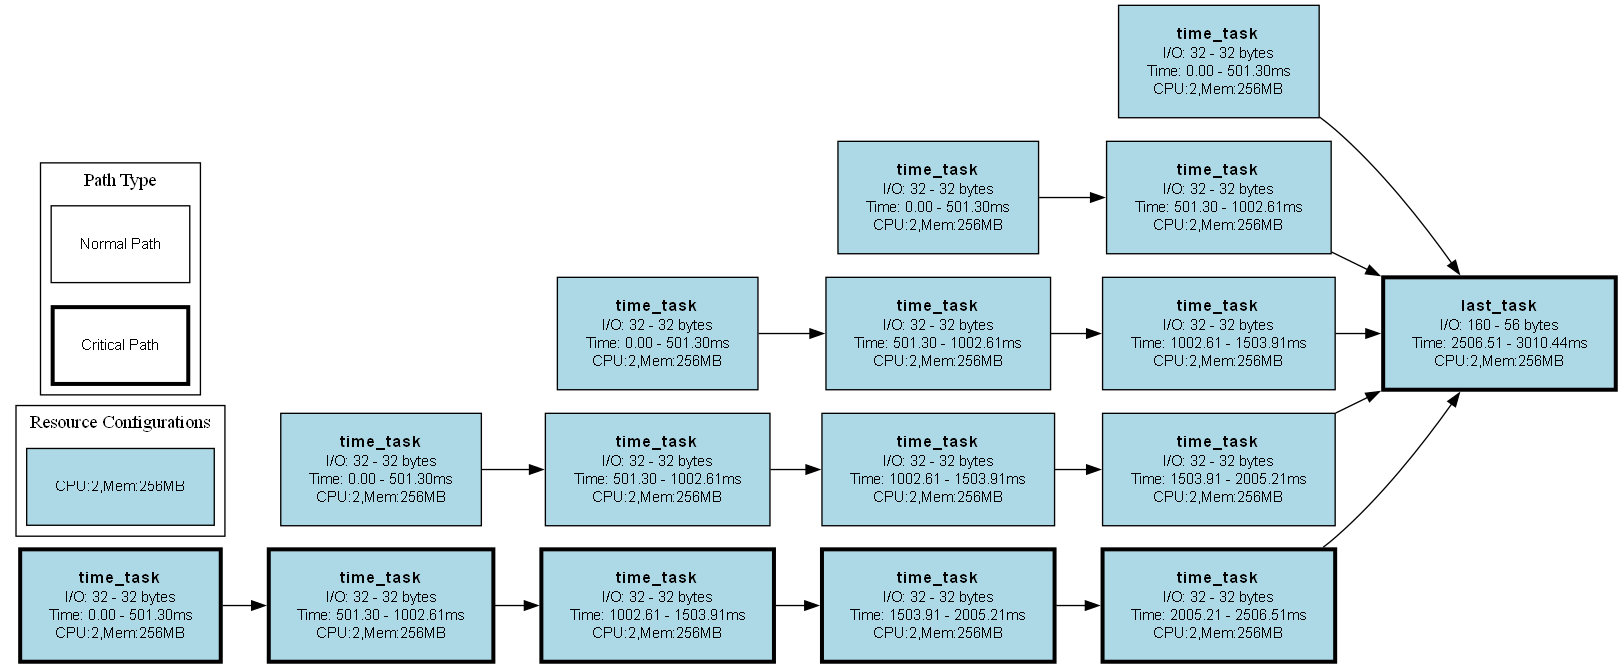
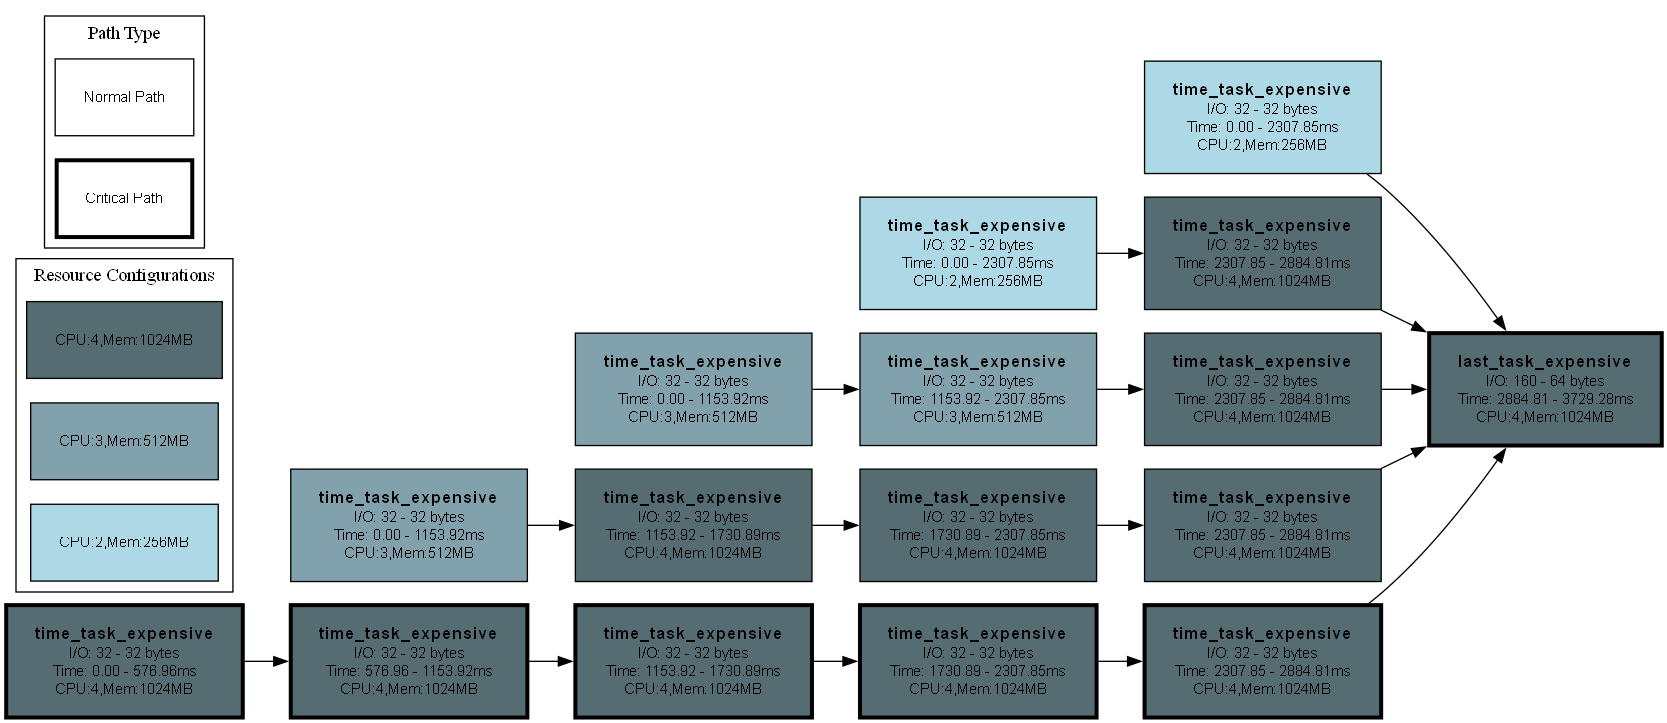
bkp before refactor

diff --git a/src/planning/dag_planner.py b/src/planning/dag_planner.py
@@ -299,27 +299,6 @@ class DAGPlanner(ABC):
         
         return dot
 
-    # @staticmethod
-    # def _simulate_lower_resources(node, sorted_available_worker_resource_configurations, node_to_resource_config, critical_path_nodes, topo_sorted_nodes, dag, metadata_access, sla):
-    #     node_id = node.id.get_full_id()
-            
-    #     # Try each resource config from lowest to highest
-    #     for resource_config in sorted_available_worker_resource_configurations:
-    #         if resource_config == node_to_resource_config[node_id]:
-    #             continue # Skip if it's the currently assigned config (no need to recalculate)
-                
-    #         # Temporarily assign this resource config
-    #         original_config = node_to_resource_config[node_id]
-    #         node_to_resource_config[node_id] = resource_config
-            
-    #         # Recalculate timings with this resource configuration
-    #         temp_nodes_info = SimpleDAGPlanner._calculate_node_timings_with_custom_resources(topo_sorted_nodes, metadata_access, node_to_resource_config, sla)
-    #         new_critical_path_nodes, _ = SimpleDAGPlanner._find_critical_path(dag, temp_nodes_info)
-            
-    #         if new_critical_path_nodes != critical_path_nodes:
-    #             # This config changes the critical path, revert
-    #             node_to_resource_config[node_id] = original_config
-
 class SimpleDAGPlanner(DAGPlanner):
     @staticmethod
     def plan(dag, metadata_access: MetadataAccess, sorted_available_worker_resource_configurations: list[TaskWorkerResourceConfiguration], sla: SLA):
@@ -349,8 +328,7 @@ class SimpleDAGPlanner(DAGPlanner):
             return
         
         logger.info(f"Starting DAG Planning Algorithm")
-        # ! UNCOMMENT AFTER TESTING best_resource_config = sorted_available_worker_resource_configurations[0]
-        best_resource_config = middle_resource_config
+        best_resource_config = sorted_available_worker_resource_configurations[0]
         
         algorithm_start_time = Timer()
 
@@ -366,34 +344,32 @@ class SimpleDAGPlanner(DAGPlanner):
         
         # Downgrade resources for nodes NOT on the critical path
         # Start with all nodes using best resources
-        # ! UNCOMMMENT AFTER TESTING node_to_resource_config = { node.id.get_full_id(): best_resource_config for node in topo_sorted_nodes }
-        node_to_resource_config = { node.id.get_full_id(): middle_resource_config for node in topo_sorted_nodes }
+        node_to_resource_config = { node.id.get_full_id(): best_resource_config for node in topo_sorted_nodes }
         nodes_outside_critical_path = [node for node in topo_sorted_nodes if node.id.get_full_id() not in critical_path_node_ids]
         lower_resources_simulation_timer = Timer()
         successful_downgrades = 0
         # For each NON-critical path node, try to use lower resources
-        # ! COMMENTED FOR TESTING
-        # for node in nodes_outside_critical_path:
-        #     node_id = node.id.get_full_id()
-        #     node_downgrade_successful = False
-        #     # Try each resource config from highest to lowest
-        #     for resource_config in sorted_available_worker_resource_configurations:
-        #         if resource_config == node_to_resource_config[node_id]: continue
-        #         # Temporarily assign this resource config
-        #         original_config = node_to_resource_config[node_id]
-        #         node_to_resource_config[node_id] = resource_config
+        for node in nodes_outside_critical_path:
+            node_id = node.id.get_full_id()
+            node_downgrade_successful = False
+            # Try each resource config from highest to lowest
+            for resource_config in sorted_available_worker_resource_configurations:
+                if resource_config == node_to_resource_config[node_id]: continue
+                # Temporarily assign this resource config
+                original_config = node_to_resource_config[node_id]
+                node_to_resource_config[node_id] = resource_config
                 
-        #         # Recalculate timings with this resource configuration
-        #         temp_nodes_info = SimpleDAGPlanner._calculate_node_timings_with_custom_resources(topo_sorted_nodes, metadata_access, node_to_resource_config, sla)
-        #         _, new_critical_path_time = SimpleDAGPlanner._find_critical_path(dag, temp_nodes_info)
+                # Recalculate timings with this resource configuration
+                temp_nodes_info = SimpleDAGPlanner._calculate_node_timings_with_custom_resources(topo_sorted_nodes, metadata_access, node_to_resource_config, sla)
+                _, new_critical_path_time = SimpleDAGPlanner._find_critical_path(dag, temp_nodes_info)
 
-        #         if new_critical_path_time != critical_path_time:
-        #             node_to_resource_config[node_id] = original_config # This config changes the critical path, revert
-        #         else:
-        #             # print(f"Node: {node_id[-6:]} | Downgraded Resources: {original_config.memory_mb} => {node_to_resource_config[node_id].memory_mb}")
-        #             node_downgrade_successful = True
-        #     if node_downgrade_successful:
-        #         successful_downgrades += 1
+                if new_critical_path_time != critical_path_time:
+                    node_to_resource_config[node_id] = original_config # This config changes the critical path, revert
+                else:
+                    # print(f"Node: {node_id[-6:]} | Downgraded Resources: {original_config.memory_mb} => {node_to_resource_config[node_id].memory_mb}")
+                    node_downgrade_successful = True
+            if node_downgrade_successful:
+                successful_downgrades += 1
 
         logger.info(f"Downgraded resources for {successful_downgrades} nodes out of {len(nodes_outside_critical_path)} nodes outside the critical path in {lower_resources_simulation_timer.stop():.3f} ms")
 
@@ -416,7 +392,7 @@ class SimpleDAGPlanner(DAGPlanner):
         updated_nodes_info = DAGPlanner._calculate_node_timings_with_custom_resources(topo_sorted_nodes, metadata_access, node_to_resource_config, sla)
         DAGPlanner._visualize_dag(dag, updated_nodes_info, node_to_resource_config, critical_path_node_ids)
         # !!! FOR QUICK TESTING ONLY. REMOVE LATER !!!
-        exit()
+        # exit()
 
 class DummyDAGPlanner(DAGPlanner):
     @staticmethod

diff --git a/src/storage/metrics/metrics_storage.py b/src/storage/metrics/metrics_storage.py
@@ -3,7 +3,10 @@ import time
 
 import cloudpickle
 from src.storage.storage import Storage
+from src.utils.logger import create_logger
 from src.worker_resource_configuration import TaskWorkerResourceConfiguration
+
+logger = create_logger(__name__)
 
 @dataclass
 class FullDAGPrepareTime:
@@ -82,20 +85,19 @@ class MetricsStorage:
         return [cloudpickle.loads(m) for m in self.storage.mget(keys)]
 
     def store_task_metrics(self, task_id: str, metrics: TaskMetrics):
-        print(f"Caching metrics for task {task_id}: {len(metrics.input_metrics)}")
+        # logger.info(f"Caching metrics for task {task_id}: {len(metrics.input_metrics)}")
         self.cached_metrics[f"{self.TASK_METRICS_KEY_PREFIX}{task_id}"] = metrics
 
     def store_dag_download_time(self, id: str, dag_download_metrics: FullDAGPrepareTime):
-        print(f"Caching download time for root node {id}: {dag_download_metrics.download_time_ms} ms, {dag_download_metrics.size_bytes} bytes")
+        # logger.info(f"Caching download time for root node {id}: {dag_download_metrics.download_time_ms} ms, {dag_download_metrics.size_bytes} bytes")
         self.cached_metrics[f"{self.DAG_METRICS_KEY_PREFIX}{id}"] = dag_download_metrics
     
     def flush(self):
-        print("Flushing metrics to storage...")
         start = time.time()
 
         for key, metrics in self.cached_metrics.items():
             self.storage.set(key, cloudpickle.dumps(metrics))
         
         end = time.time()
-        print(f"Flushed {len(self.cached_metrics)} metrics to storage in {end - start:.4f} seconds")
+        logger.info(f"Flushed {len(self.cached_metrics)} metrics to storage in {end - start:.4f} seconds")
         self.cached_metrics = {}

diff --git a/_examples/original/dagforpredictions_expensive_computations.py b/_examples/original/dagforpredictions_expensive_computations.py
@@ -36,9 +36,9 @@ dockerWorkerConfig = DockerWorker.Config(
     intermediate_storage_config=redis_intermediate_storage_config,
     metrics_storage_config=MetricsStorage.Config(storage_config=redis_metrics_storage_config),
     available_resource_configurations=[
-        TaskWorkerResourceConfiguration(cpus=1, memory_mb=128), # will be the default/fallback
         TaskWorkerResourceConfiguration(cpus=2, memory_mb=256),
-        TaskWorkerResourceConfiguration(cpus=4, memory_mb=512)
+        TaskWorkerResourceConfiguration(cpus=3, memory_mb=512),
+        TaskWorkerResourceConfiguration(cpus=4, memory_mb=1024)
     ]
 )
 

diff --git a/src/worker.py b/src/worker.py
@@ -207,7 +207,7 @@ class Worker(ABC):
         return (calculate_data_structure_size(deserialized), deserialized)
 
     @staticmethod
-    async def wait_for_result_of_task(intermediate_storage: storage_module.Storage, task: dag_task_node.DAGTaskNode, dag: dag.FullDAG, polling_interval_s: float = 1.0):
+    async def wait_for_result_of_task(intermediate_storage: storage_module.Storage, task: dag_task_node.DAGTaskNode, dag: dag.FullDAG, polling_interval_s: float = 0.1):
         start_time = Timer()
         # Poll Storage for final result. Asynchronous wait
         task_id = task.id.get_full_id_in_dag(dag)

diff --git a/TODO.md b/TODO.md
@@ -1,38 +1,33 @@
 # PLANNING ALGORITHMS
-- Problem: Test Planning accuracy (is the predicted time close to the real time?) always using the MIDDLE config and `dagforpredictions_expensive_computations.py`
-    1. Create a DAG that actually does expensive computation that runs faster on better memory
-        Adjust `dagforpredictions_expensive_computations.py`
-    2. [DONE] Change planner to just use middle configuration so that predictions algorithm doesn't influence too much
-- Revert to use more than the middle config
-
-- Test the SimplePlanner algorithm: make a run without the planning algorithm and make another with the planning algorithm, then compare
+- 1. Experiment planning with diverse resources for `dagforpredictions_expensive_computations.py`
+    Compare `planned time` VS `real time`
+- Problem ?: Dashboard makespan VS client console completion time big diff.
 - Make the SLA configurable by the user (currently it's hardcoded on `dag.py` as "avg")
-
-- IMPROVEMENTS
-    - Make predictions faster (not too important for now)
-        - Threadpool
-        - Incremental Critical Path Calculation => Instead of recalculating the entire DAG for each change, develop an algorithm that incrementally updates affected paths
-        - ? Don't simulate for ALL nodes. establish a max tries and select specific paths
-
-- Report 1st algorithm (requires: pre-load optimization implemented)
+- 1 second diff. between planned time and real time
 
 # WORKER
+- 2. Plan the worker logic refactor
+Pieces: Worker, SchedulingLogic tied to a Planner (1 => N, there can be 1 Scheduling Logic for N Planner algorithms that use the same optimizations. The SchL determines the optimizations available)
+    class SchedulingLogic
+        - virtual methods: handle_inputs, handle_execution, handle_output, handle_downstream
+            their default implementations are the current implementation on worker.start_executing()
+    class Planner
+        - Internally points to a specialized SchedulingLogic.Annotations/Optimizations
+    class Worker
+        - 
 Further abstract the worker
 - grab_dependencies (allow algorithm to use threads or coroutines to download input, only download some input and get other input locally or from another source)
 - execute (allow algorithm to do other things before, after and while task is executing or completely skip execution)
-- handle_output (allow algorithm to not upload output, upload lazilly, etc..)
+- handle_downstream (allow algorithm to not upload output, upload lazilly, etc..)
+
+- Implement pre-load optimization
+    - Implement report 1st algorithm as a NEW algorithm (keep the first one that just does 1 pass and uses no optimizations)
 
 - [REFACTOR]
     - If serialized DAG size is below a threshold (passed on WorkerConfig, pass it on the invocation)
         store_full_dag DOESN'T change
         NEW => workers MAY not need to download dag from storage
             serialized_dag: SubDAG | None
-
-- Think about "namespaces for Task Annotations per algorithm": <ALGORITHM_NAME>_PRELOAD ??
-    - how to make workers follow annotations in a scalable manner?
-        Annotations become classes that override parts of the worker code?
-        Split the worker logic into sections that are implemented by the planner (planner becomes mandatory)
-            The planner I have now would be WukongPlanner?
 
 - Remove intermediate results of a dag after complete (sink task is responsible for this)
     redis remove keys that contain <master_dag_id>
